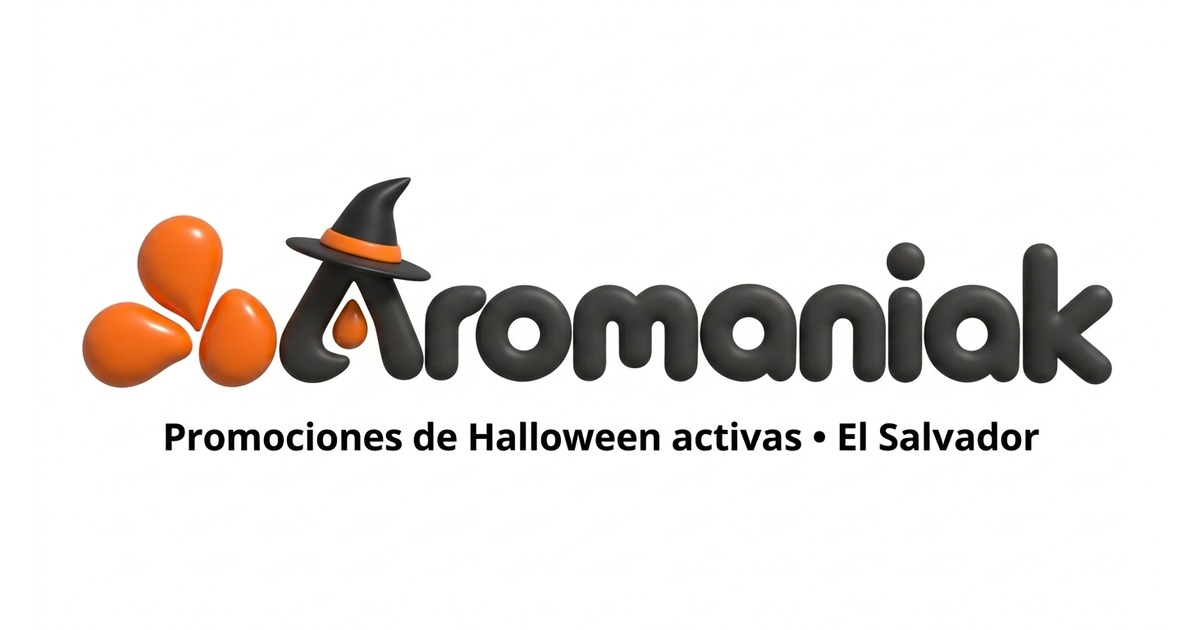
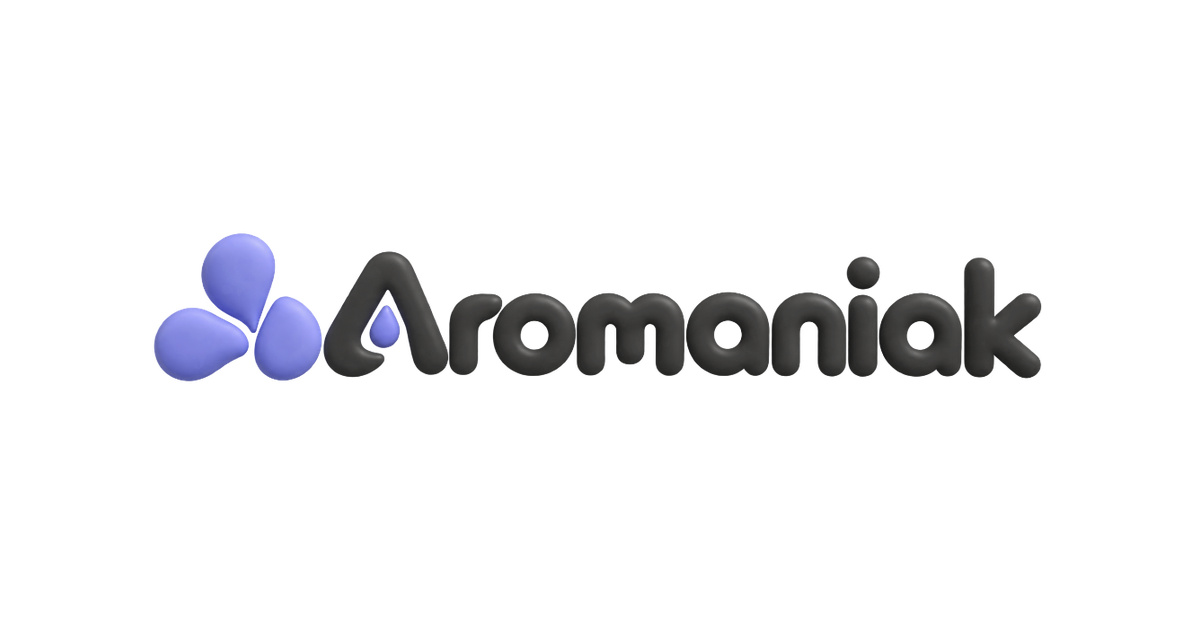
fix(seo): replace Halloween OpenGraph thumbnail with clean 1200x630 normal Aromaniak OG image

Changed region(s): [[0.0617, 0.2714, 0.925, 0.6333], [0.1233, 0.6635, 0.8633, 0.7238]]

diff --git a/src/app/layout.tsx b/src/app/layout.tsx
@@ -73,9 +73,9 @@ export const metadata: Metadata = {
     description: "Distribuidora de esencias de perfumería fina, aromas químicos, botes de vidrio y materias primas en El Salvador. Entregas a domicilio a todo El Salvador o retiro en local.",
     images: [
       {
-        url: "/images/logo.png",
-        width: 800,
-        height: 800,
+        url: "/images/og-default.jpg?v=normal2026",
+        width: 1200,
+        height: 630,
         alt: "Aromaniak SV - Distribuidora de Esencias Perfumería Fina",
       },
     ],
@@ -84,7 +84,7 @@ export const metadata: Metadata = {
     card: "summary_large_image",
     title: "Aromaniak SV | Distribuidora de Esencias Perfumería Fina en El Salvador",
     description: "Distribuidora de esencias de perfumería fina, aromas químicos, botes de vidrio y materias primas en El Salvador. Entregas a domicilio a todo El Salvador o retiro en local.",
-    images: ["/images/logo.png"],
+    images: ["/images/og-default.jpg?v=normal2026"],
   },
   robots: {
     index: true,
